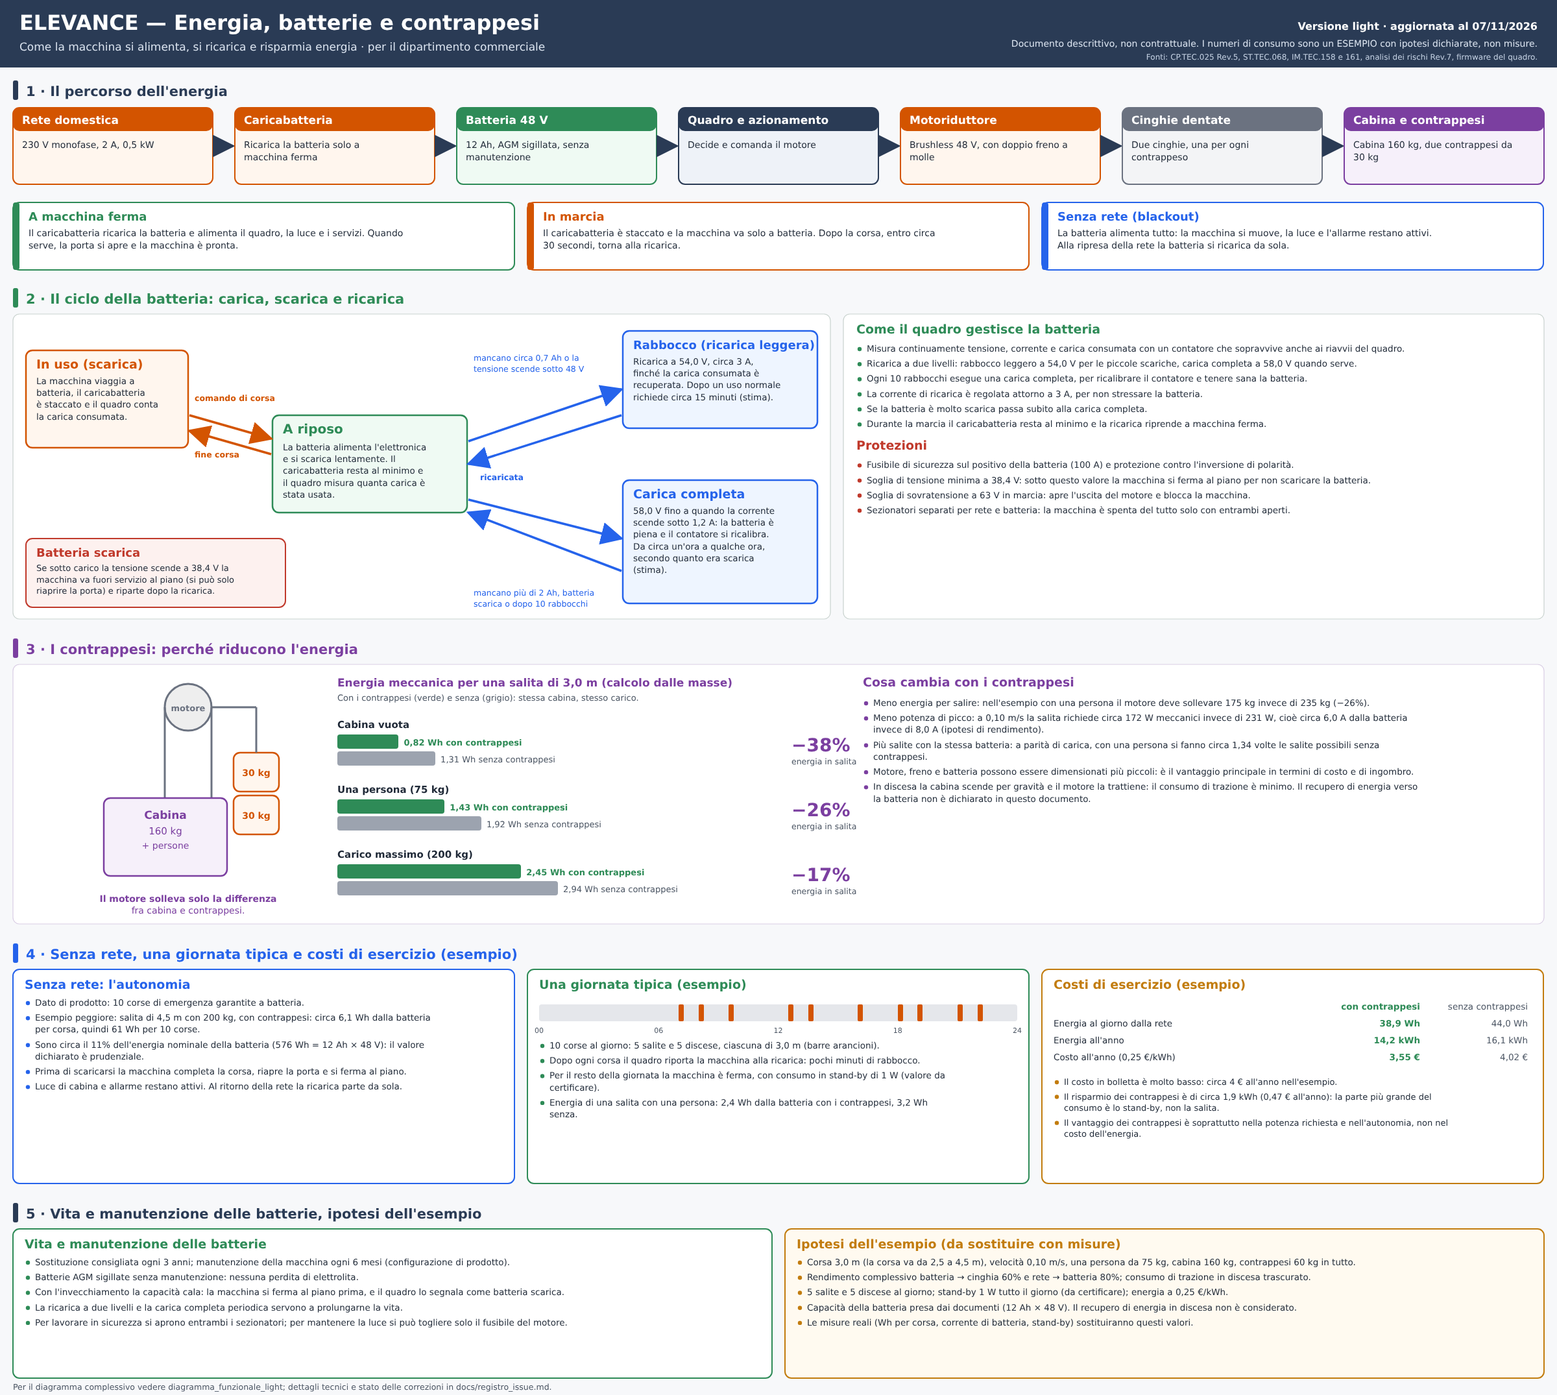
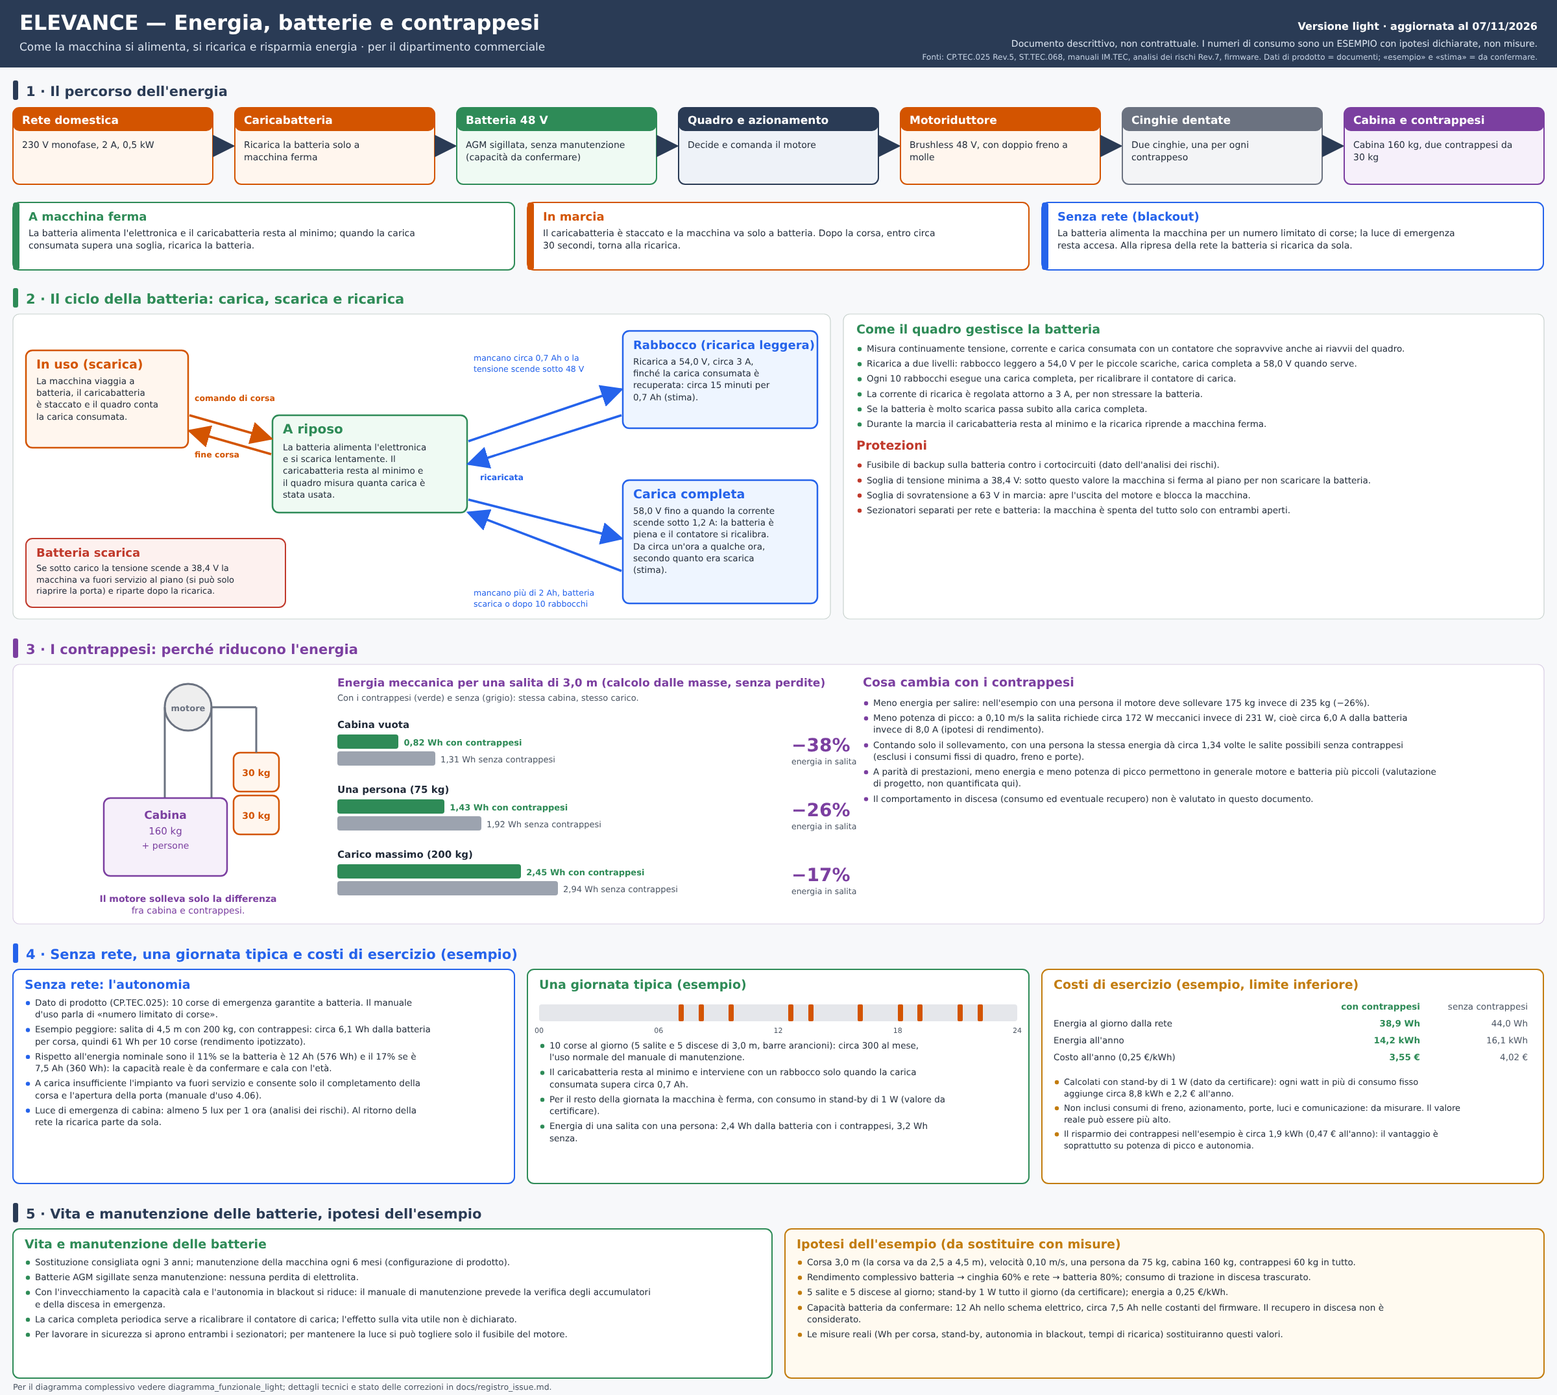
Verifica dati del diagramma energia: correzioni e voci DOC-12, FW-32
Claude-Session: https://claude.ai/code/session_014X97zaNG1xbzg14WYDzEGF

diff --git a/docs/gen_diagramma_energia.py b/docs/gen_diagramma_energia.py
@@ -6,7 +6,7 @@ Uso:  python3 docs/gen_diagramma_energia.py docs/diagrammi/04.diagramma_energia_
 Per il dipartimento commerciale: linguaggio semplice, nessun riferimento a codice o issue.
 Tutti i numeri di consumo sono un ESEMPIO con ipotesi dichiarate nel diagramma (non misure).
 Il recupero di energia in discesa non è dichiarato finché non è misurato (vedi DOC-11).
-Capacità della batteria: 12 Ah dai documenti, da riconciliare con il firmware (DOC-11).
+Capacità della batteria: 12 Ah nello schema, 7,5 Ah nel firmware: da riconciliare (DOC-12).
 Quando arrivano le misure sostituire gli esempi con i valori misurati (DOC-11).
 """
 import html
@@ -141,14 +141,14 @@ T(30, 46, 'ELEVANCE — Energia, batterie e contrappesi', 32, 'start', 'bold', '
 T(30, 78, 'Come la macchina si alimenta, si ricarica e risparmia energia · per il dipartimento commerciale', 17, 'start', 'normal', '#dbe4f0')
 T(W - 30, 46, 'Versione light · aggiornata al 07/11/2026', 16, 'end', 'bold', '#fff')
 T(W - 30, 72, 'Documento descrittivo, non contrattuale. I numeri di consumo sono un ESEMPIO con ipotesi dichiarate, non misure.', 14, 'end', 'normal', '#dbe4f0')
-T(W - 30, 92, 'Fonti: CP.TEC.025 Rev.5, ST.TEC.068, IM.TEC.158 e 161, analisi dei rischi Rev.7, firmware del quadro.', 12, 'end', 'normal', '#c3d0e2')
+T(W - 30, 92, 'Fonti: CP.TEC.025 Rev.5, ST.TEC.068, manuali IM.TEC, analisi dei rischi Rev.7, firmware. Dati di prodotto = documenti; «esempio» e «stima» = da confermare.', 12, 'end', 'normal', '#c3d0e2')
 
 # ------------------------------------------------------------------ 1. percorso dell'energia
 SECTION(124, '1 · Il percorso dell\'energia')
 flow = [
     ('Rete domestica', ORA, '#fff6ee', '230 V monofase, 2 A, 0,5 kW'),
     ('Caricabatteria', ORA, '#fff6ee', 'Ricarica la batteria solo a macchina ferma'),
-    ('Batteria 48 V', GRN, '#effaf3', '12 Ah, AGM sigillata, senza manutenzione'),
+    ('Batteria 48 V', GRN, '#effaf3', 'AGM sigillata, senza manutenzione (capacità da confermare)'),
     ('Quadro e azionamento', NAV, '#eef2f8', 'Decide e comanda il motore'),
     ('Motoriduttore', ORA, '#fff6ee', 'Brushless 48 V, con doppio freno a molle'),
     ('Cinghie dentate', GRY, '#f3f4f6', 'Due cinghie, una per ogni contrappeso'),
@@ -165,11 +165,11 @@ for i, (t, col, fill, d) in enumerate(flow):
         L(x + fw + 3, fy + 59, x + fw + fg - 3, fy + 59, NAV, 3.5, arrow=True)
 cards = [
     ('A macchina ferma', GRN,
-     'Il caricabatteria ricarica la batteria e alimenta il quadro, la luce e i servizi. Quando serve, la porta si apre e la macchina è pronta.'),
+     'La batteria alimenta l\'elettronica e il caricabatteria resta al minimo; quando la carica consumata supera una soglia, ricarica la batteria.'),
     ('In marcia', ORA,
      'Il caricabatteria è staccato e la macchina va solo a batteria. Dopo la corsa, entro circa 30 secondi, torna alla ricarica.'),
     ('Senza rete (blackout)', BLU,
-     'La batteria alimenta tutto: la macchina si muove, la luce e l\'allarme restano attivi. Alla ripresa della rete la batteria si ricarica da sola.'),
+     'La batteria alimenta la macchina per un numero limitato di corse; la luce di emergenza resta accesa. Alla ripresa della rete la batteria si ricarica da sola.'),
 ]
 cw3 = (W - 40 - 40) // 3
 for i, (t, col, d) in enumerate(cards):
@@ -193,7 +193,7 @@ PARA(56, 592, 'La macchina viaggia a batteria, il caricabatteria è staccato e i
 
 R(960, 510, 300, 150, '#eef5ff', BLU, 2.5)
 T(976, 538, 'Rabbocco (ricarica leggera)', 18, 'start', 'bold', BLU)
-PARA(976, 562, 'Ricarica a 54,0 V, circa 3 A, finché la carica consumata è recuperata. Dopo un uso normale richiede circa 15 minuti (stima).', 270, 13.5)
+PARA(976, 562, 'Ricarica a 54,0 V, circa 3 A, finché la carica consumata è recuperata: circa 15 minuti per 0,7 Ah (stima).', 270, 13.5)
 
 R(960, 740, 300, 190, '#eef5ff', BLU, 2.5)
 T(976, 768, 'Carica completa', 19, 'start', 'bold', BLU)
@@ -224,7 +224,7 @@ yy = 542
 for t in [
     'Misura continuamente tensione, corrente e carica consumata con un contatore che sopravvive anche ai riavvii del quadro.',
     'Ricarica a due livelli: rabbocco leggero a 54,0 V per le piccole scariche, carica completa a 58,0 V quando serve.',
-    'Ogni 10 rabbocchi esegue una carica completa, per ricalibrare il contatore e tenere sana la batteria.',
+    'Ogni 10 rabbocchi esegue una carica completa, per ricalibrare il contatore di carica.',
     'La corrente di ricarica è regolata attorno a 3 A, per non stressare la batteria.',
     'Se la batteria è molto scarica passa subito alla carica completa.',
     'Durante la marcia il caricabatteria resta al minimo e la ricarica riprende a macchina ferma.',
@@ -234,7 +234,7 @@ yy += 12
 T(1320, yy, 'Protezioni', 19, 'start', 'bold', RED)
 yy += 28
 for t in [
-    'Fusibile di sicurezza sul positivo della batteria (100 A) e protezione contro l\'inversione di polarità.',
+    'Fusibile di backup sulla batteria contro i cortocircuiti (dato dell\'analisi dei rischi).',
     'Soglia di tensione minima a 38,4 V: sotto questo valore la macchina si ferma al piano per non scaricare la batteria.',
     'Soglia di sovratensione a 63 V in marcia: apre l\'uscita del motore e blocca la macchina.',
     'Sezionatori separati per rete e batteria: la macchina è spenta del tutto solo con entrambi aperti.',
@@ -265,7 +265,7 @@ T(px, 1408, 'fra cabina e contrappesi.', 14, 'middle', 'normal', PUR)
 
 # tabella e barre
 tx = 520
-T(tx, 1058, f'Energia meccanica per una salita di {it(CORSA)} m (calcolo dalle masse)', 17, 'start', 'bold', PUR)
+T(tx, 1058, f'Energia meccanica per una salita di {it(CORSA)} m (calcolo dalle masse, senza perdite)', 17, 'start', 'bold', PUR)
 T(tx, 1080, 'Con i contrappesi (verde) e senza (grigio): stessa cabina, stesso carico.', 13, 'start', 'normal', SUB)
 maxw = 340.0
 maxv = max(r[3] for r in rows)
@@ -286,9 +286,9 @@ yy = 1088
 for t in [
     f'Meno energia per salire: nell\'esempio con una persona il motore deve sollevare {it(M_CAB + M_PERS - M_CW, 0)} kg invece di {it(M_CAB + M_PERS, 0)} kg (−{it(rows[1][4] * 100, 0)}%).',
     f'Meno potenza di picco: a 0,10 m/s la salita richiede circa {it(p_con, 0)} W meccanici invece di {it(p_sen, 0)} W, cioè circa {it(i_con, 1)} A dalla batteria invece di {it(i_sen, 1)} A (ipotesi di rendimento).',
-    f'Più salite con la stessa batteria: a parità di carica, con una persona si fanno circa {it(trips_ratio, 2)} volte le salite possibili senza contrappesi.',
-    'Motore, freno e batteria possono essere dimensionati più piccoli: è il vantaggio principale in termini di costo e di ingombro.',
-    'In discesa la cabina scende per gravità e il motore la trattiene: il consumo di trazione è minimo. Il recupero di energia verso la batteria non è dichiarato in questo documento.',
+    f'Contando solo il sollevamento, con una persona la stessa energia dà circa {it(trips_ratio, 2)} volte le salite possibili senza contrappesi (esclusi i consumi fissi di quadro, freno e porte).',
+    'A parità di prestazioni, meno energia e meno potenza di picco permettono in generale motore e batteria più piccoli (valutazione di progetto, non quantificata qui).',
+    'Il comportamento in discesa (consumo ed eventuale recupero) non è valutato in questo documento.',
 ]:
     yy = BUL(bx, yy, t, 1020, PUR)
 
@@ -301,11 +301,11 @@ R(x0, 1494, cwid, 330, '#fff', BLU, 2)
 T(x0 + 18, 1524, 'Senza rete: l\'autonomia', 19, 'start', 'bold', BLU)
 yy = 1550
 for t in [
-    'Dato di prodotto: 10 corse di emergenza garantite a batteria.',
-    f'Esempio peggiore: salita di 4,5 m con 200 kg, con contrappesi: circa {it(worst, 1)} Wh dalla batteria per corsa, quindi {it(worst * 10, 0)} Wh per 10 corse.',
-    f'Sono circa il {it(worst * 10 / BAT_WH * 100, 0)}% dell\'energia nominale della batteria ({BAT_WH} Wh = 12 Ah × 48 V): il valore dichiarato è prudenziale.',
-    'Prima di scaricarsi la macchina completa la corsa, riapre la porta e si ferma al piano.',
-    'Luce di cabina e allarme restano attivi. Al ritorno della rete la ricarica parte da sola.',
+    'Dato di prodotto (CP.TEC.025): 10 corse di emergenza garantite a batteria. Il manuale d\'uso parla di «numero limitato di corse».',
+    f'Esempio peggiore: salita di 4,5 m con 200 kg, con contrappesi: circa {it(worst, 1)} Wh dalla batteria per corsa, quindi {it(worst * 10, 0)} Wh per 10 corse (rendimento ipotizzato).',
+    f'Rispetto all\'energia nominale sono il {it(worst * 10 / BAT_WH * 100, 0)}% se la batteria è 12 Ah (576 Wh) e il {it(worst * 10 / (7.5 * 48) * 100, 0)}% se è 7,5 Ah (360 Wh): la capacità reale è da confermare e cala con l\'età.',
+    'A carica insufficiente l\'impianto va fuori servizio e consente solo il completamento della corsa e l\'apertura della porta (manuale d\'uso 4.06).',
+    'Luce di emergenza di cabina: almeno 5 lux per 1 ora (analisi dei rischi). Al ritorno della rete la ricarica parte da sola.',
 ]:
     yy = BUL(x0 + 18, yy, t, cwid - 40, BLU)
 
@@ -323,8 +323,8 @@ for h_ in (0, 6, 12, 18, 24):
     T(bx0 + bw0 * h_ / 24, 1592, f'{h_:02d}', 11, 'middle', 'normal', SUB)
 yy = 1616
 for t in [
-    f'10 corse al giorno: {SALITE_DIE} salite e {SALITE_DIE} discese, ciascuna di {it(CORSA)} m (barre arancioni).',
-    'Dopo ogni corsa il quadro riporta la macchina alla ricarica: pochi minuti di rabbocco.',
+    f'10 corse al giorno ({SALITE_DIE} salite e {SALITE_DIE} discese di {it(CORSA)} m, barre arancioni): circa 300 al mese, l\'uso normale del manuale di manutenzione.',
+    'Il caricabatteria resta al minimo e interviene con un rabbocco solo quando la carica consumata supera circa 0,7 Ah.',
     f'Per il resto della giornata la macchina è ferma, con consumo in stand-by di {it(STANDBY_W, 0)} W (valore da certificare).',
     f'Energia di una salita con una persona: {it(e_up_con, 1)} Wh dalla batteria con i contrappesi, {it(e_up_sen, 1)} Wh senza.',
 ]:
@@ -333,7 +333,7 @@ for t in [
 # 6. costi
 x2 = 20 + 2 * (cwid + 20)
 R(x2, 1494, cwid, 330, '#fff', AMB, 2)
-T(x2 + 18, 1524, 'Costi di esercizio (esempio)', 19, 'start', 'bold', AMB)
+T(x2 + 18, 1524, 'Costi di esercizio (esempio, limite inferiore)', 19, 'start', 'bold', AMB)
 tbl = [('', 'con contrappesi', 'senza contrappesi'),
        ('Energia al giorno dalla rete', f'{it(day_con, 1)} Wh', f'{it(day_sen, 1)} Wh'),
        ('Energia all\'anno', f'{it(year_con, 1)} kWh', f'{it(year_sen, 1)} kWh'),
@@ -345,9 +345,9 @@ for i, (a, b, c) in enumerate(tbl):
     T(x2 + cwid - 24, y, c, 13.5, 'end', 'normal', SUB)
 yy = 1672
 for t in [
-    f'Il costo in bolletta è molto basso: circa {it(year_con * PREZZO, 0)} € all\'anno nell\'esempio.',
-    f'Il risparmio dei contrappesi è di circa {it(year_sen - year_con, 1)} kWh ({it((year_sen - year_con) * PREZZO, 2)} € all\'anno): la parte più grande del consumo è lo stand-by, non la salita.',
-    'Il vantaggio dei contrappesi è soprattutto nella potenza richiesta e nell\'autonomia, non nel costo dell\'energia.',
+    f'Calcolati con stand-by di {it(STANDBY_W, 0)} W (dato da certificare): ogni watt in più di consumo fisso aggiunge circa 8,8 kWh e {it(8.76 * PREZZO, 1)} € all\'anno.',
+    'Non inclusi consumi di freno, azionamento, porte, luci e comunicazione: da misurare. Il valore reale può essere più alto.',
+    f'Il risparmio dei contrappesi nell\'esempio è circa {it(year_sen - year_con, 1)} kWh ({it((year_sen - year_con) * PREZZO, 2)} € all\'anno): il vantaggio è soprattutto su potenza di picco e autonomia.',
 ]:
     yy = BUL(x2 + 18, yy, t, cwid - 40, AMB, 13)
 
@@ -359,8 +359,8 @@ yy = 1950
 for t in [
     'Sostituzione consigliata ogni 3 anni; manutenzione della macchina ogni 6 mesi (configurazione di prodotto).',
     'Batterie AGM sigillate senza manutenzione: nessuna perdita di elettrolita.',
-    'Con l\'invecchiamento la capacità cala: la macchina si ferma al piano prima, e il quadro lo segnala come batteria scarica.',
-    'La ricarica a due livelli e la carica completa periodica servono a prolungarne la vita.',
+    'Con l\'invecchiamento la capacità cala e l\'autonomia in blackout si riduce: il manuale di manutenzione prevede la verifica degli accumulatori e della discesa in emergenza.',
+    'La carica completa periodica serve a ricalibrare il contatore di carica; l\'effetto sulla vita utile non è dichiarato.',
     'Per lavorare in sicurezza si aprono entrambi i sezionatori; per mantenere la luce si può togliere solo il fusibile del motore.',
 ]:
     yy = BUL(38, yy, t, 1130, GRN)
@@ -372,8 +372,8 @@ for t in [
     f'Corsa {it(CORSA)} m (la corsa va da 2,5 a 4,5 m), velocità 0,10 m/s, una persona da {it(M_PERS, 0)} kg, cabina {it(M_CAB, 0)} kg, contrappesi {it(M_CW, 0)} kg in tutto.',
     f'Rendimento complessivo batteria → cinghia {it(ETA_TRAZ * 100, 0)}% e rete → batteria {it(ETA_CARICA * 100, 0)}%; consumo di trazione in discesa trascurato.',
     f'{SALITE_DIE} salite e {SALITE_DIE} discese al giorno; stand-by {it(STANDBY_W, 0)} W tutto il giorno (da certificare); energia a {it(PREZZO, 2)} €/kWh.',
-    'Capacità della batteria presa dai documenti (12 Ah × 48 V). Il recupero di energia in discesa non è considerato.',
-    'Le misure reali (Wh per corsa, corrente di batteria, stand-by) sostituiranno questi valori.',
+    'Capacità batteria da confermare: 12 Ah nello schema elettrico, circa 7,5 Ah nelle costanti del firmware. Il recupero in discesa non è considerato.',
+    'Le misure reali (Wh per corsa, stand-by, autonomia in blackout, tempi di ricarica) sostituiranno questi valori.',
 ]:
     yy = BUL(1228, yy, t, 1130, AMB)
 

diff --git a/docs/registro_issue.md b/docs/registro_issue.md
@@ -57,6 +57,7 @@
 | FW-29 | Monitoraggio software del freno e controllo esterno di velocità e corrente dichiarati nell'analisi ma assenti | Alta | Aperta | Firmware |
 | FW-30 | Encoder motore SIN/COS (7EBLR002) non letto dal firmware | Media | Da decidere | Firmware |
 | FW-31 | Rampe del firmware diverse dall'ipotesi della relazione di calcolo (0,125 m/s²) | Media | Da verificare | Firmware |
+| FW-32 | Commento di `battery_charge_wait_discharge` non coerente con le costanti | Bassa | Aperta | Firmware |
 | HW-01 | Spina X8: esclude quasi tutta la catena con un solo ingresso di rilevamento | Media | Da decidere | Hardware |
 | HW-02 | Bypass trap/tray comandati solo via software | Media | Chiarita | Hardware |
 | HW-03 | Relè K1…K4 non dichiarati a contatti guidati sugli schemi | Media | Da verificare | Hardware |
@@ -83,6 +84,7 @@
 | DOC-09 | Velocità lineare della cinghia nei calcoli Megadyne (0,2 m/s) contro 0,15 m/s di progetto | Bassa | Da verificare | Documentazione |
 | DOC-10 | Diagramma funzionale commerciale: voci da aggiornare quando cambiano le funzioni descritte | Bassa | Aperta | Documentazione |
 | DOC-11 | Diagramma energia e batterie: numeri di esempio da sostituire con misure | Bassa | Aperta | Documentazione |
+| DOC-12 | Capacità della batteria discordante: 12 Ah, 7,5 Ah, 7,2 Ah | Media | Da verificare | Documentazione |
 | PRV-01 | Precisione di fermata ±10 mm | Media | Da verificare | Prove |
 | PRV-02 | Velocità ≤ 0,15 m/s misurata e conversione giri → m/s | Bassa | Da verificare | Prove |
 | PRV-03 | Sblocco della serratura con cabina appena in oltrecorsa | Media | Da verificare | Prove |
@@ -385,6 +387,14 @@ Percorsi dei file firmware: `TTF-Base/Firmware/TTF-Base/Core/` (per brevità `Sr
 
 ## Hardware e architettura
 
+### FW-32 · Commento di `battery_charge_wait_discharge` non coerente con le costanti
+**Gravità:** Bassa · **Stato:** Aperta · **Fonte:** lettura di `battery.c` e `battery.h`
+- **Dove:** `battery.c` `battery_charge_wait_discharge` e `battery.h` `BAT_BOOST_START_CHARGE`.
+- **Problema:** il commento dice che si passa in carica completa sotto il 50% (3,6 Ah consumati), il codice usa -2,0 Ah. Un commento obsoleto o una soglia cambiata senza aggiornarlo.
+- **Proposta:** allineare il commento (nessuna modifica di comportamento) quando si toccherà il file; da decidere insieme a DOC-12.
+- **Chiusura:** commento e costante coerenti.
+- **Storia:** 2026-11-07 aperta.
+
 ### HW-01 · Spina X8: esclude quasi tutta la catena con un solo ingresso di rilevamento
 **Gravità:** Media · **Stato:** Da decidere · **Fonte:** analisi §3.3.1; CHI-04
 - **Dove:** spina X8 (pin 1–3 ponte, pin 2–4 verso `BYP-S14`, `PD8`); `Src/application.c:411`.
@@ -593,10 +603,18 @@ Percorsi dei file firmware: `TTF-Base/Firmware/TTF-Base/Core/` (per brevità `Sr
 ### DOC-11 · Diagramma energia e batterie: numeri di esempio da sostituire con misure
 **Gravità:** Bassa · **Stato:** Aperta · **Fonte:** richiesta del 2026-11-07
 - **Dove:** `docs/diagrammi/04.diagramma_energia_light.svg` e `.png`, generati da `docs/gen_diagramma_energia.py`.
-- **Problema:** il diagramma per il commerciale spiega ciclo della batteria, contrappesi, autonomia, giornata tipica e costi. I consumi sono un ESEMPIO calcolato dalle masse (cabina 160 kg, contrappesi 2×30 kg) con ipotesi dichiarate: corsa 3 m, 0,10 m/s, rendimenti 60% e 80%, 5 salite e 5 discese al giorno, stand-by 1 W, 0,25 €/kWh. Il recupero di energia in discesa è volutamente omesso. Dati da riconciliare: capacità batteria 12 Ah (documenti) contro `BATTERY_DISCHARGED_MAH` nel firmware; stand-by 1 W «da certificare»; tempi di ricarica «stima»; fusibile 100 A e sezionatori dallo schema da riverificare.
+- **Problema:** il diagramma per il commerciale spiega ciclo della batteria, contrappesi, autonomia, giornata tipica e costi. I consumi sono un ESEMPIO calcolato dalle masse (cabina 160 kg, contrappesi 2×30 kg) con ipotesi dichiarate: corsa 3 m, 0,10 m/s, rendimenti 60% e 80%, 5 salite e 5 discese al giorno, stand-by 1 W, 0,25 €/kWh. Il recupero di energia in discesa è volutamente omesso. Verifica del 2026-11-07: dati di prodotto (10 corse di emergenza, 230 V 2 A 0,5 kW, 0,10/0,15 m/s, 160 kg, 2×30 kg, 3 anni/6 mesi) confermati da CP.TEC.025 Rev.5 e ST.TEC.068. Incerti: stand-by 1 W «da certificare» (non include l'elettronica a batteria, comunicazione, luci); rendimenti 60% e 80% ipotizzati; consumi di freno, VFD, porte non inclusi (costi = limite inferiore); tempi di rabbocco e carica completa calcolati, non misurati; 10 corse di emergenza non verificate da prova (il manuale d'uso dice «numero limitato»); comportamento in discesa non valutato (i commenti del firmware prevedono assorbimento di energia rigenerata e c'è una protezione a 63 V). Rimossi dal diagramma il «fusibile 100 A» e la protezione da inversione di polarità, non trovati nei documenti.
 - **Proposta:** misurare Wh per corsa (salita/discesa, vuota/carico) e stand-by, verificare il tempo di rabbocco e di carica completa, confermare la capacità della batteria; poi sostituire gli esempi con misure, togliere le diciture «stima» e allinearlo al calcolo ufficiale di classe energetica se esiste. Rivedere con R&D prima di diffonderlo.
 - **Chiusura:** valori misurati e diagramma allineato; revisione R&D registrata.
 - **Storia:** 2026-11-07 aperta con la prima versione del diagramma.
+
+### DOC-12 · Capacità della batteria discordante: 12 Ah, 7,5 Ah, 7,2 Ah
+**Gravità:** Media · **Stato:** Da verificare · **Fonte:** schema `Schema Macchina/Cappello.kicad_sch`, `battery.h`, `battery.c`
+- **Dove:** schema elettrico, simbolo batteria «48V 12Ah»; `battery.h` `BATTERY_DISCHARGED_MAH = 7500` («capacità nominale»); commento in `battery.c` (`battery_charge_wait_discharge`): «sotto il 50% (3.6 Ah consumati)» che implica circa 7,2 Ah. Massa batterie 18 kg (ST.TEC.068). CP.TEC.025 non indica la capacità.
+- **Problema:** tre valori diversi. Se la capacità reale è 12 Ah il contatore viene azzerato su «scarica» a 7,5 Ah consumati (circa 62%), se è 7,5 Ah il margine è nullo. Cambia l'autonomia in blackout e le soglie di ricarica.
+- **Proposta:** leggere modello e capacità sulla batteria installata e sul datasheet; allineare schema, costante e commento; verificare l'autonomia con la prova delle 10 corse di emergenza.
+- **Chiusura:** capacità confermata e documenti allineati.
+- **Storia:** 2026-11-07 aperta durante la verifica dei dati del diagramma energia.
 
 ---
 
@@ -707,3 +725,4 @@ Percorsi dei file firmware: `TTF-Base/Firmware/TTF-Base/Core/` (per brevità `Sr
 | 2026-11-07 | Aggiunta la versione «light» del diagramma funzionale per il dipartimento commerciale e la voce DOC-10 per tenerla allineata. Totale 74 voci. |
 | 2026-11-07 | Aggiunto il diagramma light su energia, batterie e contrappesi e la voce DOC-11 (numeri di esempio da misurare). Totale 75 voci. |
 | 2026-11-07 | Diagrammi spostati in `docs/diagrammi/` con numerazione 01-04 nel nome file. |
+| 2026-11-07 | Verifica dei dati del diagramma energia: corretti testi non supportati dai documenti; aggiunte DOC-12 (capacità batteria discordante) e FW-32 (commento obsoleto). Totale 77 voci. |
